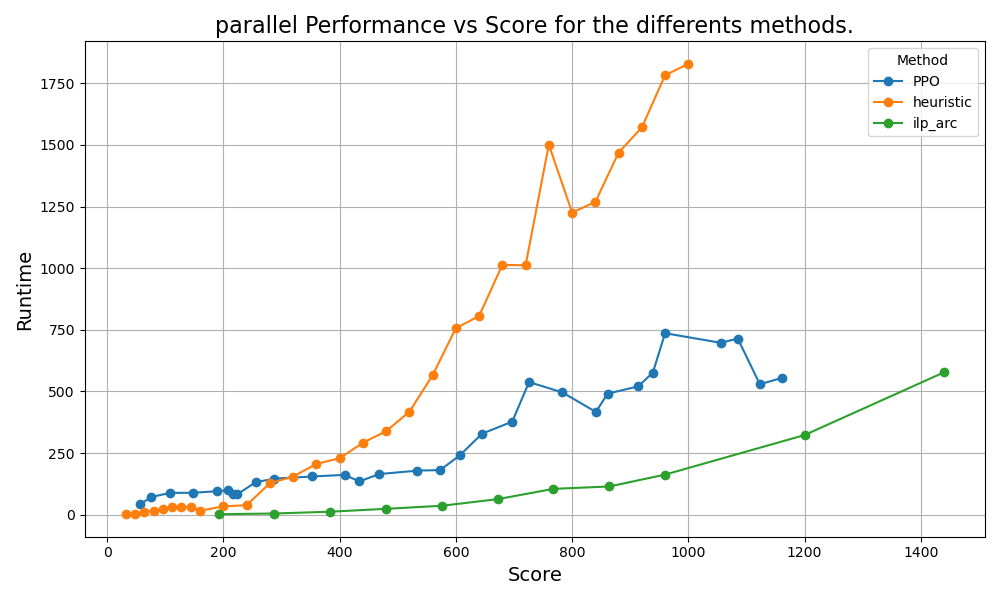
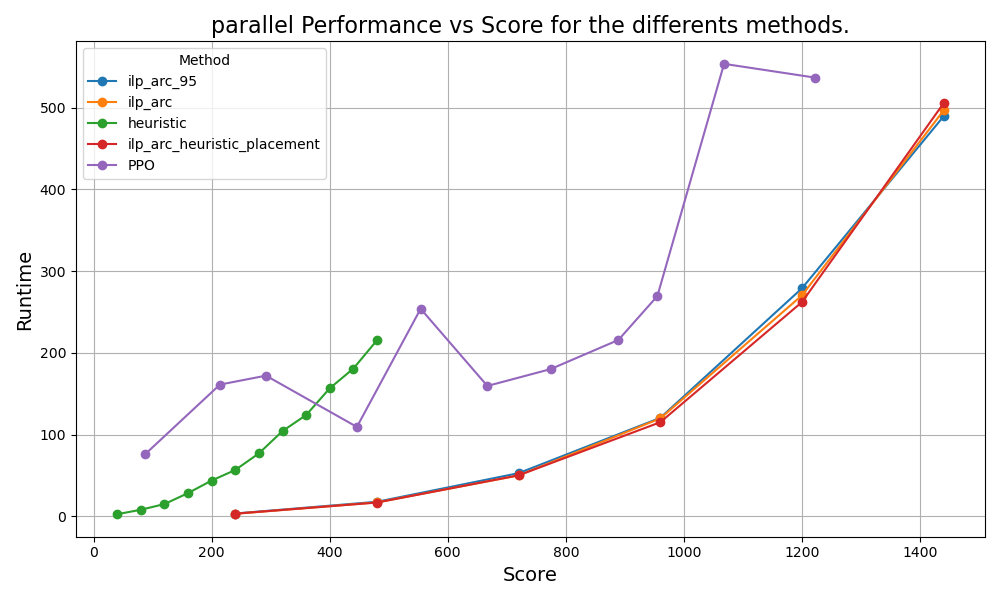
Update

diff --git a/plot_results.py b/plot_results.py
@@ -26,6 +26,18 @@ df = df[df["neighbors"] == neighbors]
 df = df.drop(["instance", "neighbors", "groups"], axis=1)
 
 df = df.sort_values(by=["users"])
+df = df[
+    df["solver"].isin(
+        [
+            "PPO",
+            "ilp_arc",
+            "ilp_arc_heuristic_placement",
+            "ilp_arc_heuristic_warmstart",
+            "heuristic",
+            "ilp_arc_95",
+        ]
+    )
+]
 
 plt.figure(figsize=(10, 6))
 for solver_name in set(df["solver"]):

diff --git a/remove_duplicates.py b/remove_duplicates.py
@@ -3,6 +3,7 @@ from datetime import datetime
 
 current_date = datetime.now().strftime("%d_%m_%y")
 CSV_PATH = f"results_{current_date}.csv"
+CSV_PATH = "results_12_02_25.csv"
 df = pd.read_csv(CSV_PATH)
 
 df = df.groupby(['instance', 'solver', 'users', 'neighbors', 'groups']).agg(
